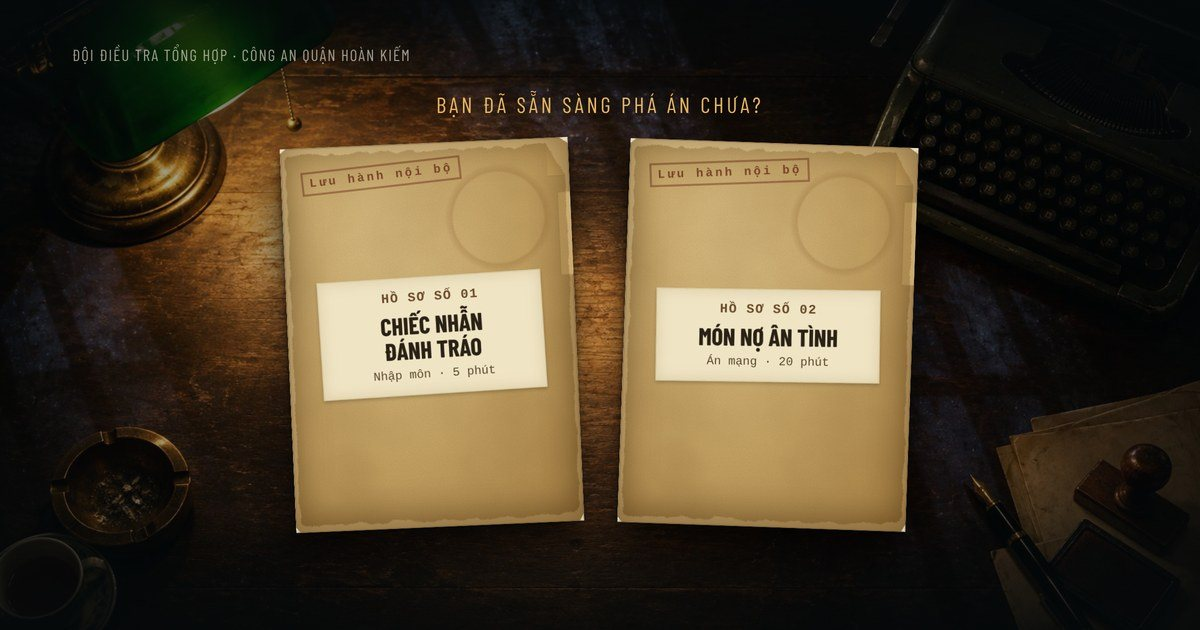
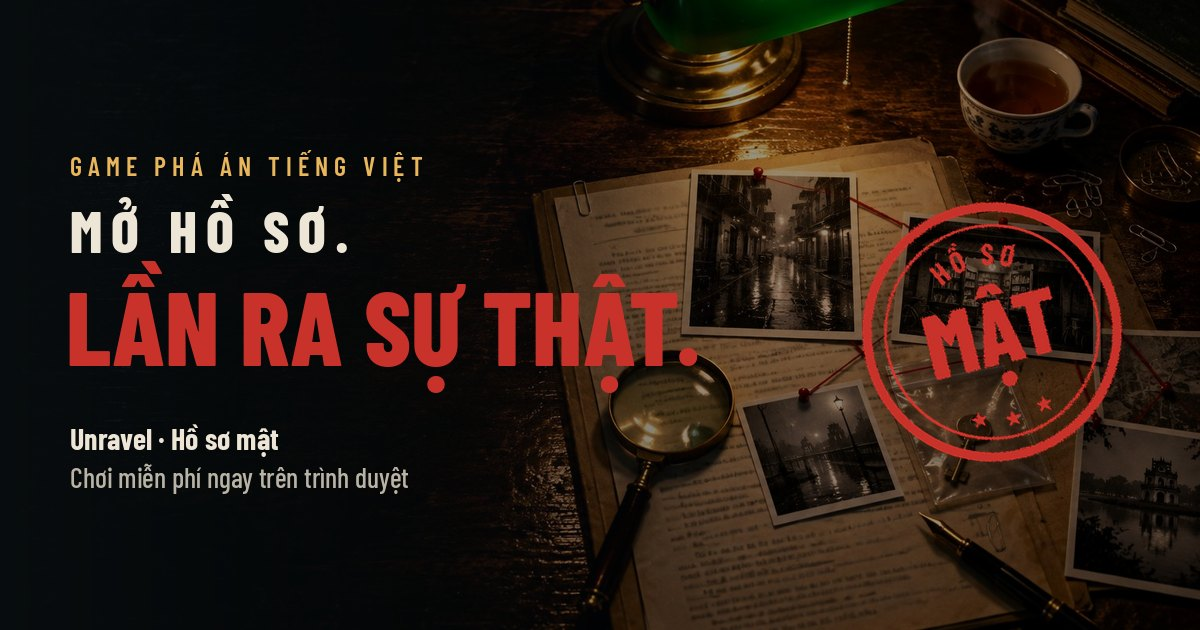
Add files via upload

diff --git a/index.html b/index.html
@@ -1,14 +1,31 @@
 <!DOCTYPE html>
 <html lang="vi" class="js">
 <head>
+<!-- Google tag (GTM-PXRWFJK7) -->
+<script async src="https://www.googletagmanager.com/gtm.js?id=GTM-PXRWFJK7"></script>
+<script>
+  window.dataLayer = window.dataLayer || [];
+  function gtag(){dataLayer.push(arguments);}
+  gtag('js', new Date());
+</script>
+
 <meta charset="utf-8">
 <meta name="viewport" content="width=device-width,initial-scale=1">
 <title>Unravel - Hồ sơ mật · Game phá án tiếng Việt</title>
 <meta name="description" content="Mở hồ sơ. Lần ra sự thật. Game phá án tiếng Việt, chơi miễn phí ngay trên trình duyệt, không cần tải app.">
 <meta property="og:title" content="Unravel - Hồ sơ mật">
 <meta property="og:description" content="Mở hồ sơ. Lần ra sự thật.">
-<meta property="og:image" content="img/og.jpg">
+<meta property="og:image" content="https://unravel-hosomat.vercel.app/img/og.jpg">
+<meta property="og:url" content="https://unravel-hosomat.vercel.app/">
+<meta property="og:site_name" content="Unravel - Hồ sơ mật">
+<meta property="og:locale" content="vi_VN">
+<meta name="twitter:image" content="https://unravel-hosomat.vercel.app/img/og.jpg">
+<link rel="canonical" href="https://unravel-hosomat.vercel.app/">
 <meta name="twitter:card" content="summary_large_image">
+<meta property="og:type" content="website">
+<meta property="og:image:width" content="1200">
+<meta property="og:image:height" content="630">
+<link rel="artifact-thumbnail" href="img/og.jpg">
 <link rel="icon" href="img/favicon.png">
 <link rel="preconnect" href="https://fonts.googleapis.com"><link rel="preconnect" href="https://fonts.gstatic.com" crossorigin>
 <link rel="stylesheet" href="https://fonts.googleapis.com/css2?family=Barlow+Condensed:wght@500;600;700;800&family=Be+Vietnam+Pro:wght@400;500&display=swap">
@@ -264,6 +281,9 @@ footer{padding:64px 0 28px;color:#8b9592;font-size:15px;background:linear-gradie
 }
 @media (prefers-reduced-motion:reduce){*{animation:none!important;transition:none!important}canvas#rain{display:none}}
 </style>
+<!-- Vercel Web Analytics: bật trong Vercel > Project > Analytics -->
+<script>window.va=window.va||function(){(window.vaq=window.vaq||[]).push(arguments)};</script>
+<script defer src="/_vercel/insights/script.js"></script>
 </head>
 <body>
 <div class="prog" id="prog"></div>
@@ -427,6 +447,18 @@ addEventListener('scroll',()=>{if(!tk){tk=1;requestAnimationFrame(f)}},{passive:
 (()=>{const c=document.getElementById('cd');if(!c||!c.dataset.at)return;const T=new Date(c.dataset.at).getTime(),el={};c.querySelectorAll('b').forEach(b=>el[b.dataset.u]=b);
 const set=(k,v)=>{v=String(v).padStart(2,'0');if(el[k].textContent!==v){el[k].textContent=v;el[k].classList.remove('tick');void el[k].offsetWidth;el[k].classList.add('tick')}};
 const f=()=>{let t=Math.max(0,Math.floor((T-Date.now())/1000));set('d',Math.floor(t/86400));set('h',Math.floor(t/3600)%24);set('m',Math.floor(t/60)%60);set('s',t%60)};f();setInterval(f,1000)})();
+(()=>{
+// track(): gửi sự kiện tới mọi công cụ đang có (Vercel, GA4, TikTok Pixel, Meta Pixel)
+window.track=(n,p={})=>{try{window.va&&va('event',{name:n,data:p})}catch(e){}try{window.gtag&&gtag('event',n,p)}catch(e){}try{window.ttq&&ttq.track(n,p)}catch(e){}try{window.fbq&&fbq('trackCustom',n,p)}catch(e){}};
+document.addEventListener('click',e=>{const a=e.target.closest('a,button');if(!a)return;const h=a.getAttribute('href')||'';
+ if(h.includes('mon-no-an-tinh'))track('play_click',{from:a.closest('.hero')?'hero':a.closest('.cases')?'case_card':a.closest('.quiz')?'quiz':a.closest('footer')?'footer':'other'});
+ else if(h.includes('tiktok.com'))track('tiktok_click',{from:a.closest('header')?'header':a.closest('.cases')?'case_card':a.closest('.faq')?'faq':'footer'});
+ else if(a.id==='shareBtn')track('share_click');
+ else if(a.classList.contains('sus'))track('quiz_answer',{correct:a.dataset.ok==='1'});});
+document.querySelectorAll('.acc details').forEach(d=>d.addEventListener('toggle',()=>{if(d.open)track('faq_open',{q:d.querySelector('summary').textContent.trim()})}));
+const seen=new Set(),io=new IntersectionObserver(es=>es.forEach(e=>{const id=e.target.id||e.target.className.split(' ')[0];if(e.isIntersecting&&!seen.has(id)){seen.add(id);track('section_view',{section:id})}}),{threshold:.4});
+document.querySelectorAll('#thu-nghe,#tu-ho-so,.how,#hoi-dap').forEach(x=>io.observe(x));
+})();
 </script>
 </body>
 </html>
